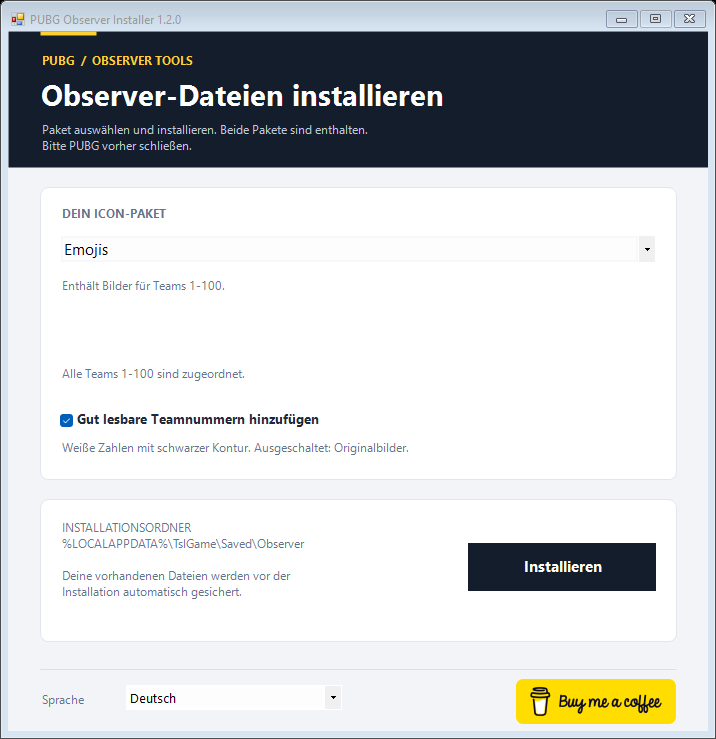
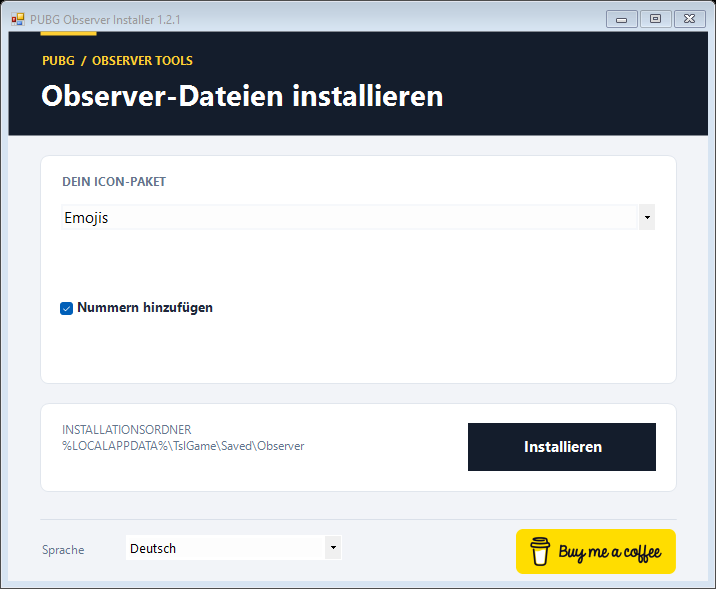
Simplify installer labels and remove explanatory subtitles

diff --git a/src/Installer.cs b/src/Installer.cs
@@ -9,8 +9,8 @@ using System.Windows.Forms;
 
 [assembly: AssemblyTitle("PUBG Observer Installer")]
 [assembly: AssemblyDescription("Installiert lokale Observer-Pakete fuer PUBG")]
-[assembly: AssemblyVersion("1.2.0.0")]
-[assembly: AssemblyFileVersion("1.2.0.0")]
+[assembly: AssemblyVersion("1.2.1.0")]
+[assembly: AssemblyFileVersion("1.2.1.0")]
 
 namespace PubgObserver
 {
@@ -18,7 +18,6 @@ namespace PubgObserver
     {
         public static readonly string[] PackIds = { "flags", "emojis" };
         public static string[] PackNames { get { return new[] { Language.Text("plain"), Language.Text("emojis") }; } }
-        public static string[] PackCoverage { get { return new[] { Language.Text("coverage25"), Language.Text("coverage100") }; } }
 
         public static string InstallPack(int index, string target, bool fillWithEmojis = false, bool addNumbers = false)
         {
@@ -120,14 +119,13 @@ namespace PubgObserver
         private readonly Label status = new Label();
         private readonly Button install = new Button();
         private readonly CheckBox fill = new CheckBox();
-        private readonly Label fillInfo = new Label();
         private readonly CheckBox numbers = new CheckBox();
         private bool translating;
 
         public MainForm()
         {
-            Text = "PUBG Observer Installer 1.2.0";
-            ClientSize = new Size(700, 700);
+            Text = "PUBG Observer Installer 1.2.1";
+            ClientSize = new Size(700, 550);
             FormBorderStyle = FormBorderStyle.FixedSingle;
             MaximizeBox = false;
             AutoScaleMode = AutoScaleMode.Dpi;
@@ -143,62 +141,53 @@ namespace PubgObserver
                 e.Graphics.SmoothingMode = SmoothingMode.AntiAlias;
                 float scale = ClientSize.Width / 700f;
                 e.Graphics.ScaleTransform(scale, scale);
-                using (var brush = new SolidBrush(headerColor)) e.Graphics.FillRectangle(brush, 0, 0, 700, 136);
+                using (var brush = new SolidBrush(headerColor)) e.Graphics.FillRectangle(brush, 0, 0, 700, 104);
                 using (var accent = new SolidBrush(Color.FromArgb(255, 207, 51))) e.Graphics.FillRectangle(accent, 32, 0, 56, 4);
-                DrawCard(e.Graphics, new Rectangle(32, 156, 636, 292));
-                DrawCard(e.Graphics, new Rectangle(32, 468, 636, 142));
-                using (var line = new Pen(Color.FromArgb(218, 224, 233))) e.Graphics.DrawLine(line, 32, 638, 668, 638);
+                DrawCard(e.Graphics, new Rectangle(32, 124, 636, 228));
+                DrawCard(e.Graphics, new Rectangle(32, 372, 636, 88));
+                using (var line = new Pen(Color.FromArgb(218, 224, 233))) e.Graphics.DrawLine(line, 32, 488, 668, 488);
             };
             var brand = new Label { Text = "PUBG  /  OBSERVER TOOLS", Font = new Font("Segoe UI", 9, FontStyle.Bold), ForeColor = Color.FromArgb(255, 207, 51), BackColor = headerColor, Location = new Point(32, 21), Size = new Size(620, 20) };
             var title = new Label { Font = new Font("Segoe UI", 22, FontStyle.Bold), ForeColor = Color.White, BackColor = headerColor, AutoSize = true, Location = new Point(28, 43) };
-            var intro = new Label { ForeColor = Color.FromArgb(192, 202, 216), BackColor = headerColor, Location = new Point(32, 90), Size = new Size(636, 38), Font = new Font("Segoe UI", 9) };
-            var packLabel = new Label { Font = new Font("Segoe UI", 9, FontStyle.Bold), ForeColor = muted, BackColor = Color.White, Location = new Point(52, 174), Size = new Size(580, 22) };
+            var packLabel = new Label { Font = new Font("Segoe UI", 9, FontStyle.Bold), ForeColor = muted, BackColor = Color.White, Location = new Point(52, 142), Size = new Size(580, 22) };
             packs.Name = "PackSelection";
             packs.DropDownStyle = ComboBoxStyle.DropDownList;
-            packs.SetBounds(52, 204, 596, 32);
+            packs.SetBounds(52, 172, 596, 32);
             packs.Font = new Font("Segoe UI", 11);
             packs.FlatStyle = FlatStyle.Flat;
             packs.BackColor = Color.FromArgb(246, 248, 251);
             packs.Items.AddRange(Installer.PackNames);
             packs.Items.Add(Language.Text("custom"));
-            source.SetBounds(52, 248, 464, 30);
+            source.SetBounds(52, 216, 464, 30);
             source.ReadOnly = true;
             source.Name = "SourceFolder";
             source.TextChanged += delegate { UpdateFillOption(); };
-            var browse = new Button { Location = new Point(528, 246), Size = new Size(120, 32), FlatStyle = FlatStyle.Flat, BackColor = Color.White, Cursor = Cursors.Hand };
+            var browse = new Button { Location = new Point(528, 214), Size = new Size(120, 32), FlatStyle = FlatStyle.Flat, BackColor = Color.White, Cursor = Cursors.Hand };
             browse.FlatAppearance.BorderColor = Color.FromArgb(207, 215, 226);
             browse.Click += delegate
             {
                 using (var dialog = new FolderBrowserDialog { Description = Language.Text("folder"), ShowNewFolderButton = false })
                     if (dialog.ShowDialog(this) == DialogResult.OK) source.Text = dialog.SelectedPath;
             };
-            var coverage = new Label { Name = "PackCoverage", Location = new Point(52, 246), Size = new Size(596, 42), BackColor = Color.White, ForeColor = muted, Font = new Font("Segoe UI", 9) };
             packs.SelectedIndexChanged += delegate
             {
                 if (translating) return;
                 bool custom = packs.SelectedIndex == Installer.PackIds.Length;
                 source.Visible = browse.Visible = custom;
-                coverage.Visible = !custom;
-                coverage.Text = custom || packs.SelectedIndex < 0 ? "" : Installer.PackCoverage[packs.SelectedIndex];
                 UpdateFillOption();
             };
             fill.Name = "FillMissing";
-            fill.SetBounds(52, 302, 596, 28);
+            fill.SetBounds(52, 258, 596, 28);
             fill.BackColor = Color.White;
             fill.Font = new Font("Segoe UI", 10, FontStyle.Bold);
-            fillInfo.SetBounds(52, 334, 596, 36);
-            fillInfo.BackColor = Color.White;
-            fillInfo.ForeColor = muted;
-            fillInfo.Font = new Font("Segoe UI", 9);
             numbers.Name = "AddNumbers";
             numbers.Checked = true;
-            numbers.SetBounds(52, 376, 596, 28);
+            numbers.SetBounds(52, 300, 596, 28);
             numbers.BackColor = Color.White;
             numbers.Font = new Font("Segoe UI", 10, FontStyle.Bold);
-            var numberInfo = new Label { Location = new Point(52, 408), Size = new Size(596, 30), BackColor = Color.White, ForeColor = muted, Font = new Font("Segoe UI", 9) };
             packs.SelectedIndex = 0;
-            var target = new Label { Location = new Point(52, 488), Size = new Size(380, 108), BackColor = Color.White, Font = new Font("Segoe UI", 9), ForeColor = muted };
-            install.SetBounds(460, 512, 188, 48);
+            var target = new Label { Location = new Point(52, 390), Size = new Size(380, 52), BackColor = Color.White, Font = new Font("Segoe UI", 9), ForeColor = muted };
+            install.SetBounds(460, 392, 188, 48);
             install.BackColor = headerColor;
             install.ForeColor = Color.White;
             install.Font = new Font("Segoe UI", 11, FontStyle.Bold);
@@ -207,14 +196,14 @@ namespace PubgObserver
             install.FlatAppearance.MouseOverBackColor = Color.FromArgb(44, 61, 84);
             install.Cursor = Cursors.Hand;
             install.Click += InstallClick;
-            status.SetBounds(32, 613, 636, 24);
+            status.SetBounds(32, 463, 636, 24);
             status.Font = new Font("Segoe UI", 9);
-            Controls.AddRange(new Control[] { brand, title, intro, packLabel, packs, coverage, source, browse, fill, fillInfo, numbers, numberInfo, target, install, status });
-            var languageLabel = new Label { Location = new Point(32, 660), Size = new Size(86, 25), ForeColor = muted, Font = new Font("Segoe UI", 9) };
-            var languages = new ComboBox { Name = "LanguageSelection", DropDownStyle = ComboBoxStyle.DropDownList, Location = new Point(118, 654), Size = new Size(216, 30), FlatStyle = FlatStyle.Flat, BackColor = Color.White };
+            Controls.AddRange(new Control[] { brand, title, packLabel, packs, source, browse, fill, numbers, target, install, status });
+            var languageLabel = new Label { Location = new Point(32, 510), Size = new Size(86, 25), ForeColor = muted, Font = new Font("Segoe UI", 9) };
+            var languages = new ComboBox { Name = "LanguageSelection", DropDownStyle = ComboBoxStyle.DropDownList, Location = new Point(118, 504), Size = new Size(216, 30), FlatStyle = FlatStyle.Flat, BackColor = Color.White };
             languages.Items.AddRange(new[] { Language.Text("system"), "English", "Deutsch" });
             languages.SelectedIndex = 0;
-            var donate = new Button { Name = "Donate", Location = new Point(508, 648), Size = new Size(160, 45), Tag = "https://buymeacoffee.com/forli69", FlatStyle = FlatStyle.Flat, BackgroundImageLayout = ImageLayout.Zoom, Cursor = Cursors.Hand, UseVisualStyleBackColor = false, BackColor = BackColor };
+            var donate = new Button { Name = "Donate", Location = new Point(508, 498), Size = new Size(160, 45), Tag = "https://buymeacoffee.com/forli69", FlatStyle = FlatStyle.Flat, BackgroundImageLayout = ImageLayout.Zoom, Cursor = Cursors.Hand, UseVisualStyleBackColor = false, BackColor = BackColor };
             donate.FlatAppearance.BorderSize = 0;
             using (var stream = Assembly.GetExecutingAssembly().GetManifestResourceStream("Brand.BuyMeACoffee.png"))
             using (var graphic = Image.FromStream(stream)) donate.BackgroundImage = new Bitmap(graphic);
@@ -233,12 +222,10 @@ namespace PubgObserver
                 try
                 {
                     title.Text = Language.Text("title");
-                    intro.Text = Language.Text("intro");
                     packLabel.Text = Language.Text("packLabel");
                     browse.Text = Language.Text("browse");
                     fill.Text = Language.Text("fill");
                     numbers.Text = Language.Text("numbers");
-                    numberInfo.Text = Language.Text("numberInfo");
                     target.Text = Language.Text("target");
                     install.Text = Language.Text("install");
                     languageLabel.Text = Language.Text("language");
@@ -248,7 +235,6 @@ namespace PubgObserver
                     packs.Items.AddRange(Installer.PackNames);
                     packs.Items.Add(Language.Text("custom"));
                     packs.SelectedIndex = selected;
-                    coverage.Text = selected < 0 || selected == Installer.PackIds.Length ? "" : Installer.PackCoverage[selected];
                     status.Text = "";
                     UpdateFillOption();
                     fill.Checked = fill.Enabled && wasChecked;
@@ -281,18 +267,20 @@ namespace PubgObserver
 
         private void UpdateFillOption()
         {
+            bool custom = packs.SelectedIndex == Installer.PackIds.Length;
+            fill.Top = custom ? 258 : 222;
+            numbers.Top = fill.Top + 42;
             fill.Checked = false;
             fill.Visible = false;
             fill.Enabled = false;
-            fillInfo.Text = "";
+            status.Text = "";
             try
             {
                 if (packs.SelectedIndex < 0 || (packs.SelectedIndex == Installer.PackIds.Length && String.IsNullOrWhiteSpace(source.Text))) return;
                 int missing = packs.SelectedIndex == Installer.PackIds.Length ? TeamCsv.MissingInFolder(source.Text) : TeamCsv.MissingInPack(packs.SelectedIndex);
                 fill.Visible = fill.Enabled = missing > 0;
-                fillInfo.Text = missing > 0 ? String.Format(Language.Text("missing"), missing) : Language.Text("complete");
             }
-            catch (Exception ex) { fillInfo.Text = Language.Text("csvCheck") + ex.Message; }
+            catch (Exception ex) { status.Text = Language.Text("csvCheck") + ex.Message; }
         }
 
         private void InstallClick(object sender, EventArgs args)

diff --git a/src/Language.cs b/src/Language.cs
@@ -19,21 +19,15 @@ namespace PubgObserver
         {
             {"title", new[] {"Install observer files", "Observer-Dateien installieren"}},
             {"packLabel", new[] {"CHOOSE YOUR ICON PACK", "DEIN ICON-PAKET"}},
-            {"intro", new[] {"Choose a pack and install. Both packs are included.\nPlease close PUBG first.", "Paket auswählen und installieren. Beide Pakete sind enthalten.\nBitte PUBG vorher schließen."}},
             {"emojis", new[] {"Emojis", "Emojis"}},
             {"plain", new[] {"Flags (default)", "Flaggen (Standard)"}},
             {"custom", new[] {"Custom Observer folder…", "Eigener Observer-Ordner…"}},
-            {"coverage100", new[] {"Includes images for teams 1-100.", "Enthält Bilder für Teams 1-100."}},
-            {"coverage25", new[] {"Includes images for teams 1-25. No flag is assigned from team 26 onward.", "Enthält Bilder für Teams 1-25. Ab Team 26 ist keine Flagge definiert."}},
             {"browse", new[] {"Browse…", "Auswählen…"}},
             {"folder", new[] {"Select the Observer folder containing TeamInfo.csv and TeamIcon.", "Observer-Ordner mit TeamInfo.csv und TeamIcon auswählen."}},
             {"fill", new[] {"Fill missing assignments with emojis", "Fehlende Zuordnungen mit Emojis auffüllen"}},
-            {"numbers", new[] {"Add readable team numbers", "Gut lesbare Teamnummern hinzufügen"}},
-            {"numberInfo", new[] {"White numbers with a black outline. Disable to use the original images.", "Weiße Zahlen mit schwarzer Kontur. Ausgeschaltet: Originalbilder."}},
-            {"missing", new[] {"{0} missing team numbers up to 100 can be added.", "{0} fehlende Teamnummern bis 100 können ergänzt werden."}},
-            {"complete", new[] {"All teams 1-100 are assigned.", "Alle Teams 1-100 sind zugeordnet."}},
+            {"numbers", new[] {"Add numbers", "Nummern hinzufügen"}},
             {"csvCheck", new[] {"Could not check the CSV: ", "CSV konnte nicht geprüft werden: "}},
-            {"target", new[] {"INSTALLATION FOLDER\n%LOCALAPPDATA%\\TslGame\\Saved\\Observer\n\nYour existing files are backed up automatically\nbefore the selected pack is installed.", "INSTALLATIONSORDNER\n%LOCALAPPDATA%\\TslGame\\Saved\\Observer\n\nDeine vorhandenen Dateien werden vor der\nInstallation automatisch gesichert."}},
+            {"target", new[] {"INSTALLATION FOLDER\n%LOCALAPPDATA%\\TslGame\\Saved\\Observer", "INSTALLATIONSORDNER\n%LOCALAPPDATA%\\TslGame\\Saved\\Observer"}},
             {"install", new[] {"Install", "Installieren"}},
             {"chooseFirst", new[] {"Please select an Observer folder first.", "Bitte zuerst einen Observer-Ordner auswählen."}},
             {"running", new[] {"PUBG is running. Please close the game and try again.", "PUBG läuft noch. Bitte das Spiel schließen und erneut installieren."}},

diff --git a/README.md b/README.md
@@ -37,7 +37,7 @@ Das Ziel ist `%LOCALAPPDATA%\TslGame\Saved\Observer`. Administratorrechte sind n
 
 ## Gut lesbare Teamnummern
 
-Die Option **Gut lesbare Teamnummern hinzufügen** ist standardmäßig aktiv und kann für alle Pakete sowie eigene Observer-Ordner ausgeschaltet werden. Jedes in der CSV zugeordnete Bild erhält unten rechts seine Teamnummer in weißer, kräftiger Schrift mit schwarzer Kontur, ohne zusätzliche Hintergrundfläche. Dafür werden eigene PNG-Dateien mit 128 × 128 Pixeln erzeugt; die Originalbilder bleiben erhalten. Das Seitenverhältnis des Motivs bleibt bestehen.
+Die Option **Nummern hinzufügen** ist standardmäßig aktiv und kann für alle Pakete sowie eigene Observer-Ordner ausgeschaltet werden. Jedes in der CSV zugeordnete Bild erhält unten rechts seine Teamnummer in weißer, kräftiger Schrift mit schwarzer Kontur, ohne zusätzliche Hintergrundfläche. Dafür werden eigene PNG-Dateien mit 128 × 128 Pixeln erzeugt; die Originalbilder bleiben erhalten. Das Seitenverhältnis des Motivs bleibt bestehen.
 
 Die Nummerierung wird nach der optionalen Emoji-Ergänzung angewendet, sodass auch aufgefüllte Teams ihre passende Zahl bekommen. Beim Ausschalten und erneuten Installieren eines enthaltenen Pakets werden wieder dessen Originalbilder verwendet. Bereits in Originalbildern enthaltene Nummern werden dadurch nicht entfernt.
 
